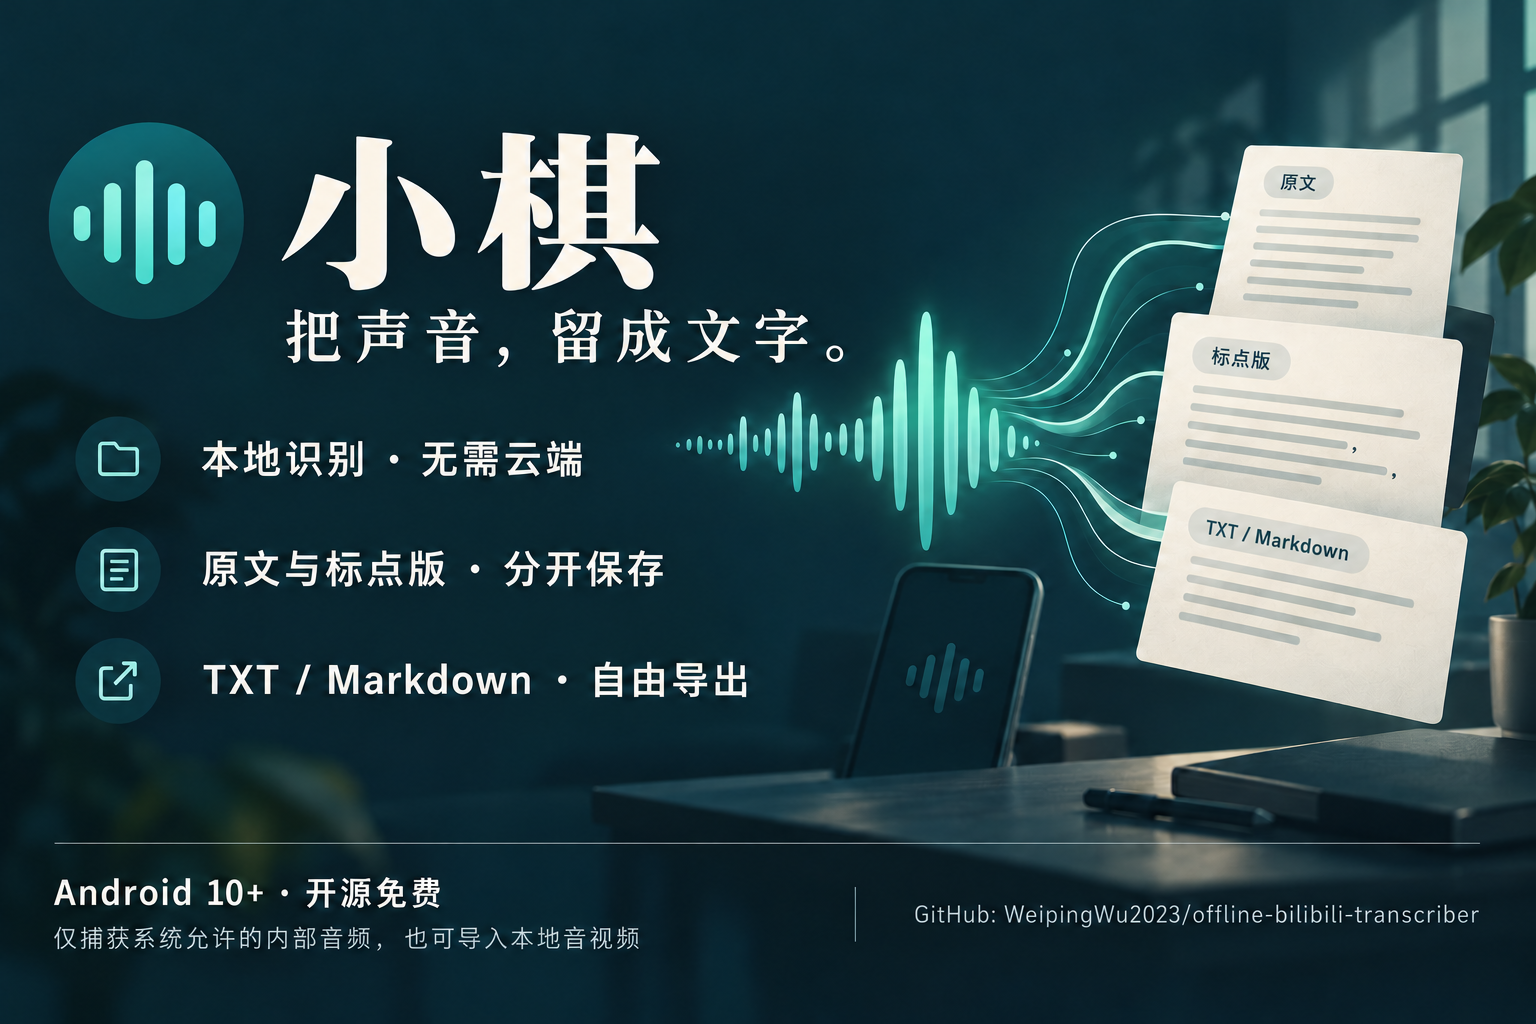
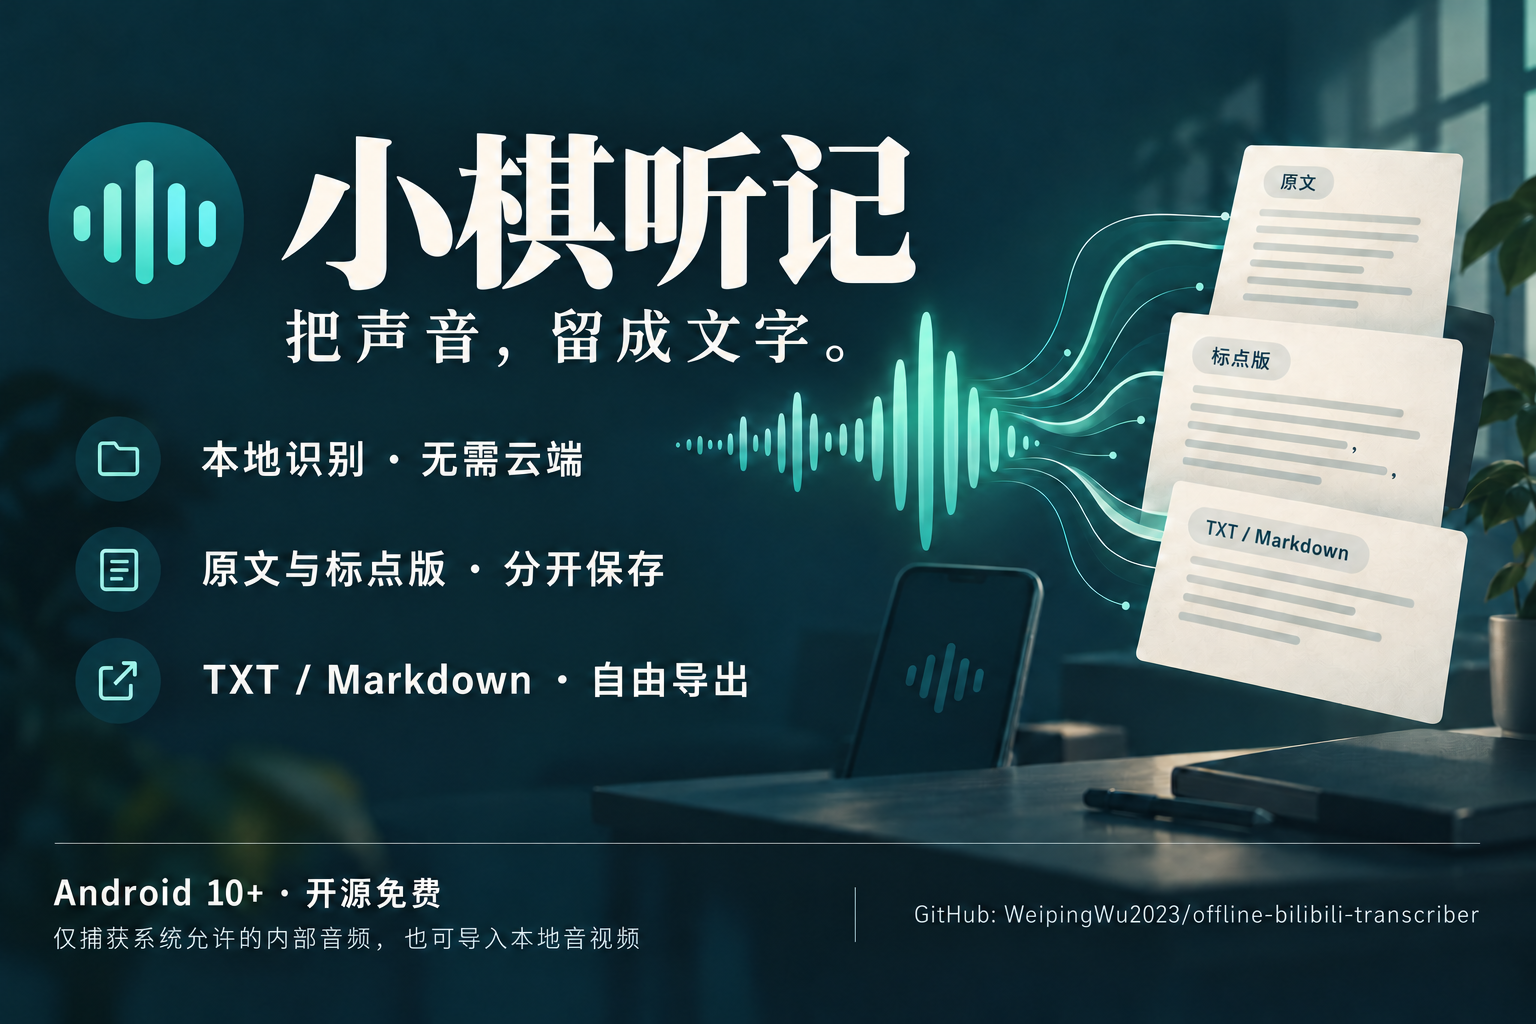
Finalize app name as 小棋听记 across app, docs and poster

diff --git a/app/src/main/java/com/example/captureprobe/WorkspaceUi.kt b/app/src/main/java/com/example/captureprobe/WorkspaceUi.kt
@@ -211,7 +211,7 @@ fun LibraryPanel(preselectPath: String, onPlay: (File) -> Unit, onStopPlayback: 
             }
             }
             val body = when (mode) { "原文" -> TranscriptText.faithful(segments); "编辑稿" -> draft; else -> TranscriptText.readable(segments) }
-            TextButton(onClick = { context.getSystemService(ClipboardManager::class.java).setPrimaryClip(ClipData.newPlainText("小棋", body)); message = "已复制 $mode" }, enabled = body.isNotEmpty()) { Text("复制当前文本") }
+            TextButton(onClick = { context.getSystemService(ClipboardManager::class.java).setPrimaryClip(ClipData.newPlainText("小棋听记", body)); message = "已复制 $mode" }, enabled = body.isNotEmpty()) { Text("复制当前文本") }
             Row {
                 Button(onClick = { exportText(TranscriptText.export(audio.title, run.copy(edited = draft), segments, mode, false), "${audio.title}-$mode.txt") }, enabled = body.isNotEmpty()) { Text("导出 TXT") }
                 Spacer(Modifier.width(8.dp))

diff --git a/app/src/main/java/com/example/captureprobe/MainActivity.kt b/app/src/main/java/com/example/captureprobe/MainActivity.kt
@@ -165,7 +165,7 @@ class MainActivity : ComponentActivity() {
                 Surface(modifier = Modifier.fillMaxSize()) {
                     Column(Modifier.safeDrawingPadding().verticalScroll(rememberScrollState()).padding(16.dp),
                         verticalArrangement = Arrangement.spacedBy(12.dp)) {
-                        Text("小棋", style = MaterialTheme.typography.headlineSmall)
+                        Text("小棋听记", style = MaterialTheme.typography.headlineSmall)
                         Text("内部音频录制 · 本地识别 · 本地保存", style = MaterialTheme.typography.bodyMedium)
                         Row { listOf("录音", "文稿", "模型").forEach { item -> TextButton(onClick = { tab = item }) { Text((if (tab == item) "● " else "") + item) } } }
                         if (tab == "文稿") LibraryPanel(selected, { play(it, capturable = false) }, ::releasePlayer)

diff --git a/app/src/main/java/com/example/captureprobe/TranscriptionService.kt b/app/src/main/java/com/example/captureprobe/TranscriptionService.kt
@@ -196,7 +196,7 @@ class TranscriptionService : Service() {
         val open = PendingIntent.getActivity(this, 2, Intent(this, MainActivity::class.java), PendingIntent.FLAG_IMMUTABLE)
         val pause = PendingIntent.getService(this, 3, Intent(this, TranscriptionService::class.java).setAction(PAUSE), PendingIntent.FLAG_IMMUTABLE)
         return Notification.Builder(this, CHANNEL).setSmallIcon(android.R.drawable.ic_menu_edit)
-            .setContentTitle("小棋 · 转写 $progress%").setContentText(message).setContentIntent(open)
+            .setContentTitle("小棋听记 · 转写 $progress%").setContentText(message).setContentIntent(open)
             .setProgress(100, progress, progress == 0).setOngoing(true)
             .addAction(Notification.Action.Builder(null, "暂停", pause).build()).build()
     }

diff --git a/app/src/main/java/com/example/captureprobe/CaptureService.kt b/app/src/main/java/com/example/captureprobe/CaptureService.kt
@@ -214,7 +214,7 @@ class CaptureService : Service() {
         val open = PendingIntent.getActivity(this, 0, Intent(this, MainActivity::class.java), PendingIntent.FLAG_IMMUTABLE)
         val stop = PendingIntent.getService(this, 1, Intent(this, CaptureService::class.java).setAction(STOP), PendingIntent.FLAG_IMMUTABLE)
         return Notification.Builder(this, CHANNEL).setSmallIcon(android.R.drawable.ic_btn_speak_now)
-            .setContentTitle("小棋 · 录制中").setContentText(text).setContentIntent(open)
+            .setContentTitle("小棋听记 · 录制中").setContentText(text).setContentIntent(open)
             .setOngoing(true).addAction(Notification.Action.Builder(null, "停止", stop).build()).build()
     }
 

diff --git a/docs/POSTER.md b/docs/POSTER.md
@@ -7,3 +7,5 @@
 Create a polished Chinese promotional poster for an open-source Android offline transcription app named 小棋. Landscape 1536x1024, editorial tech product design, deep midnight teal #102E3A background, mint #66DDD4 waveform, warm ivory Chinese typography, generous spacing and precise alignment. On left very large exact title “小棋” and subtitle “把声音，留成文字。” Under it three short feature rows exact text “本地识别 · 无需云端” “原文与标点版 · 分开保存” “TXT / Markdown · 自由导出”. A round solid teal app symbol with six mint vertical waveform strokes, no white border. On right abstract elegant mint audio waveform transforming into neat Chinese text lines on paper cards, small phone silhouette is conceptual not an actual app screenshot. Footer exact text “Android 10+ · 开源免费” and a readable limitation line exact text “仅捕获系统允许的内部音频，也可导入本地音视频”. Small exact text “GitHub: WeipingWu2023/offline-bilibili-transcriber”. No Bilibili logo, no QR code, no promise of universal capture or perfect accuracy, no unrelated badges, no fake screenshots, no gradients or neon purple. High-quality readable Chinese, restrained sophisticated hierarchy. This is the final repository promotional poster.
 
 最终编辑提示词：Edit this existing promotional poster. Change only the large main Chinese app title to exact text 小棋. Use very large elegant bold ivory Chinese typography, aligned with the subtitle. Keep the subtitle 把声音，留成文字。 unchanged. Preserve all other text, footer repository URL, round waveform app symbol, mint/dark teal colors, paper cards, conceptual phone, and composition. No new objects or claims. The new brand is exactly two Chinese characters 小棋.
+
+最终品牌编辑提示词：Edit the attached landscape poster. Replace the headline with exactly 小棋听记 (four Chinese characters 小 棋 听 记). Fit all four in the upper-left headline area with large ivory typography, no overlap with the waveform or cards. Preserve subtitle 把声音，留成文字。, feature text, Android 10+ · 开源免费, capture permission limitation, repository URL, round icon, colors, lighting and composition. Change only the title and required spacing; no added claims.

diff --git a/docs/APP_GUIDE.md b/docs/APP_GUIDE.md
@@ -1,12 +1,12 @@
-# 小棋使用说明
+# 小棋听记使用说明
 
 公开发行版使用正式签名；原开发测试版签名不同，不能直接覆盖。后续同一发行签名可覆盖更新。安装前参考README及FAQ。没有 INTERNET 权限，没有云识别或后端。APK 包含 sherpa-onnx 运行库，识别模型以独立 ZIP 导入一次，之后重复离线使用。
 
 ## 首次准备
 
-1. 安装 `xiaoqi-v1.0.1.apk`（GitHub Releases中的已签名版本）。
+1. 安装 `xiaoqi-tingji-v1.0.1.apk`（GitHub Releases中的已签名版本）。
 2. 将 `sensevoice-offline-models.zip` 放到手机 Downloads 或本地文件夹。
-3. 打开“小棋”→“模型”→“导入模型 ZIP”，在系统文件选择器中选中 ZIP。保持页面直至完成。导入会校验每个文件的 SHA256、限制大小并防止 ZIP 路径穿越。
+3. 打开“小棋听记”→“模型”→“导入模型 ZIP”，在系统文件选择器中选中 ZIP。保持页面直至完成。导入会校验每个文件的 SHA256、限制大小并防止 ZIP 路径穿越。
 4. 导入后模型保存在应用私有目录。可以断网使用。模型 ZIP 是一次性安装材料，确认导入成功后可自行删除 Downloads 中的副本。
 
 ## 录制和转写

diff --git a/docs/RELEASE_TEST_RESULTS.md b/docs/RELEASE_TEST_RESULTS.md
@@ -9,4 +9,4 @@
 - 模型新增完整FunASR模型协议、Silero MIT和作者来源说明；模型权重本身未改变。
 - 公开APK使用新发行签名，原测试手机仍保留debug签名与数据。release构建和签名已验证，未将新签名release覆盖安装在这台有现有数据的手机上。先前已验证功能详见OFFLINE_TEST_RESULTS.md。
 - 首页推广海报为AI生成插画，不是实际页面截图。
-- 发布前按要求统一名称为“小棋”，同步Manifest、页面、通知、文档和海报，重新构建。
+- 发布前按要求统一名称为“小棋听记”，同步Manifest、页面、通知、文档和海报，重新构建。
